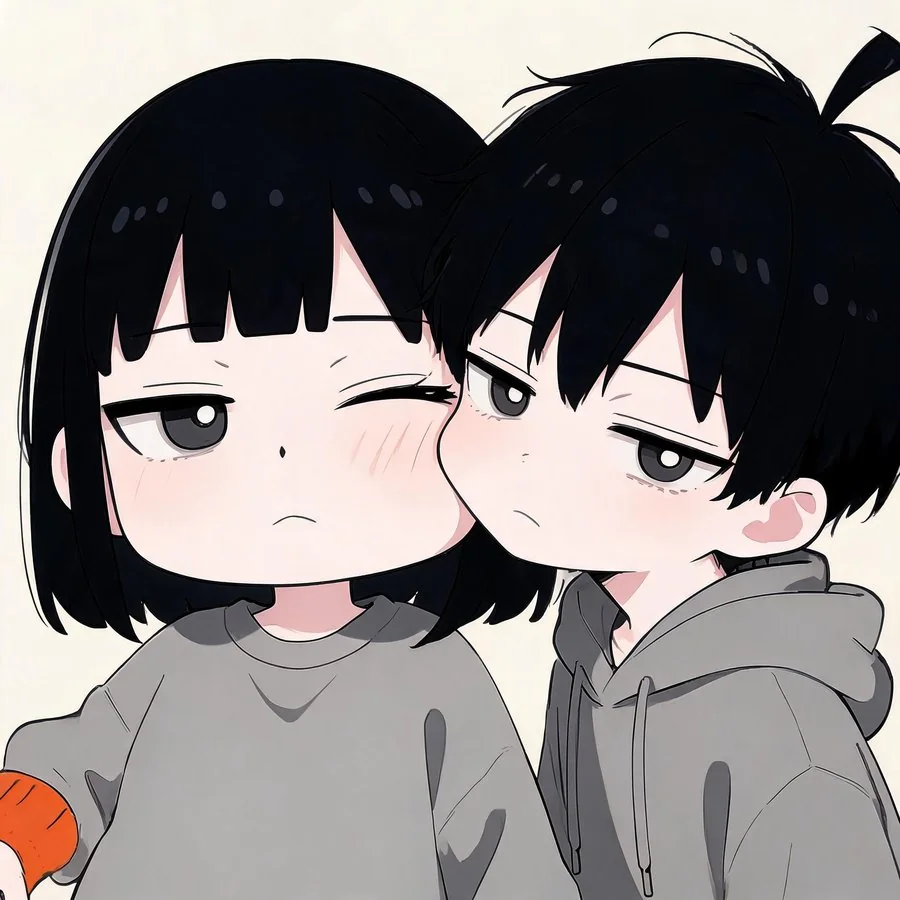
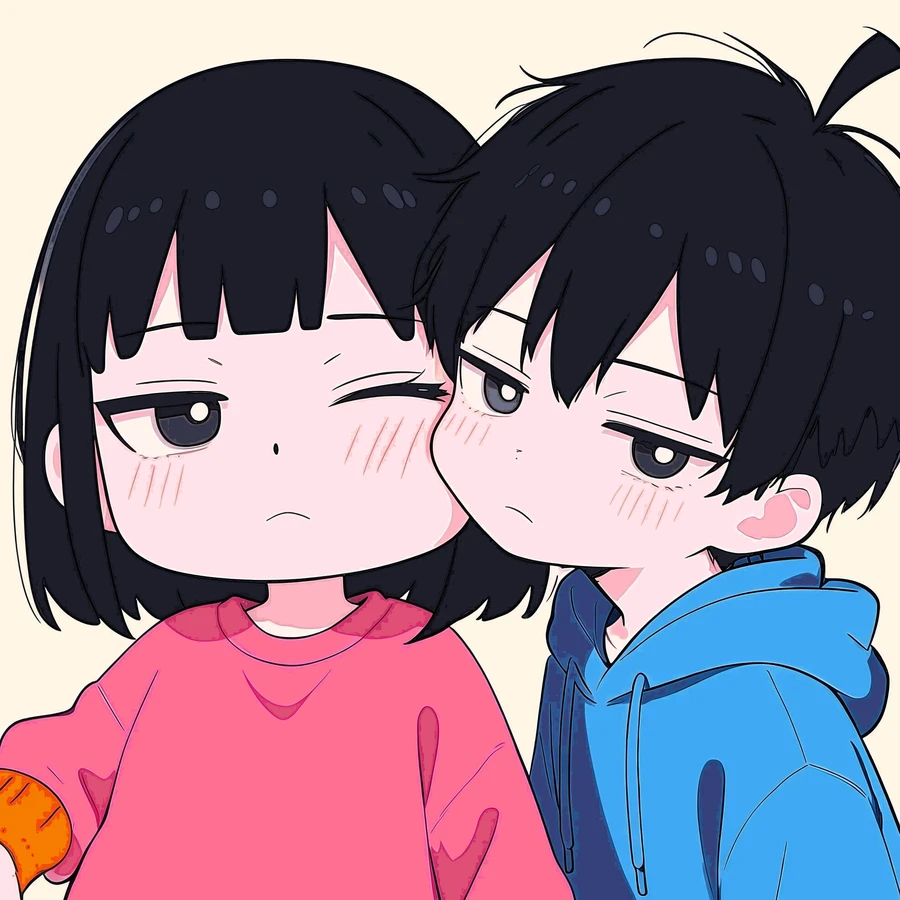
쌍둥이 듀오 셀카(twins/duo.webp)를 아동 컬러판(핑크 맨투맨·하늘색 후드)으로 다시 칠함

diff --git a/_tests/test_recolor_twins_duo.py b/_tests/test_recolor_twins_duo.py
@@ -1,0 +1,153 @@
+"""Item: recolour the twins duo selfie (assets/images/twins/duo.webp) to the kids palette.
+
+Done when
+- the image keeps the size and mode of the bb74c20 original (900x900 RGB, opaque),
+- it is more colourful than the original and colourfulness >= 8%,
+- the sister's pink sweatshirt (#FF6F91) and the brother's sky hoodie (#3FA9F5)
+  are both visible (the mono original has neither),
+- work PNGs / candidates live only outside the repo (TEMP), never in it.
+
+Note: the mono base already scores ~0.34 on imgcheck.colourfulness because its
+blue-black hair counts as saturated, so the garment checks are what prove the
+recolour actually happened.
+Run: python _tests/test_recolor_twins_duo.py
+"""
+import colorsys
+import os
+import subprocess
+import sys
+import unittest
+
+sys.dont_write_bytecode = True
+sys.path.insert(0, os.path.dirname(os.path.abspath(__file__)))
+import imgcheck  # noqa: E402
+
+REL = "assets/images/twins/duo.webp"
+MIN_COLOUR = 0.08     # completion criterion: colourfulness >= 8%
+MIN_SHARE = 0.03      # each garment colour must cover >= 3% of the picture
+BASE_MAX_SHARE = 0.02  # sanity: the mono base must stay below this
+
+
+def hue_share(img, lo, hi, sat_min=0.30, val_min=0.0, val_max=1.0, max_side=256):
+    """Share of opaque pixels whose hue is in [lo, hi] (wraps if lo > hi)."""
+    img = img.convert("RGBA")
+    if max(img.size) > max_side:
+        img = img.copy()
+        img.thumbnail((max_side, max_side), imgcheck.Image.NEAREST)
+    total = hits = 0
+    for r, g, b, a in img.getdata():
+        if a < 128:
+            continue
+        total += 1
+        h, s, v = colorsys.rgb_to_hsv(r / 255, g / 255, b / 255)
+        h *= 360
+        inside = (lo <= h <= hi) if lo <= hi else (h >= lo or h <= hi)
+        if inside and s >= sat_min and val_min <= v <= val_max:
+            hits += 1
+    return hits / total if total else 0.0
+
+
+def pink_share(img):
+    # pink #FF6F91 (hue ~346) and its shadow; bright, so dark reds are excluded
+    return hue_share(img, 325, 10, sat_min=0.30, val_min=0.55)
+
+
+def sky_share(img):
+    # sky #3FA9F5 (hue ~205) and shadow; bright, so blue-black hair is excluded
+    return hue_share(img, 188, 218, sat_min=0.30, val_min=0.70)
+
+
+class TestRecolorTwinsDuo(unittest.TestCase):
+    def test_file_exists(self):
+        self.assertTrue(os.path.isfile(imgcheck.repo_path(REL)))
+
+    def test_changed_from_base(self):
+        with open(imgcheck.repo_path(REL), "rb") as f:
+            now = f.read()
+        self.assertFalse(imgcheck.original_bytes(REL) == now,
+                         "still the bb74c20 (mono) file")
+
+    def test_size_and_mode_match_base(self):
+        ok, msg = imgcheck.same_size_mode(REL)
+        self.assertTrue(ok, msg)
+
+    def test_still_webp(self):
+        self.assertEqual(imgcheck.current(REL).format, "WEBP")
+
+    def test_more_colourful_than_base(self):
+        old = imgcheck.colourfulness(imgcheck.original(REL))
+        new = imgcheck.colourfulness(imgcheck.current(REL))
+        self.assertGreater(new, old, f"{old:.3f} -> {new:.3f}")
+        self.assertGreaterEqual(new, MIN_COLOUR, f"{new:.3f} < {MIN_COLOUR}")
+
+    def test_sister_pink_present(self):
+        share = pink_share(imgcheck.current(REL))
+        self.assertGreaterEqual(share, MIN_SHARE, f"pink sweatshirt {share:.3f}")
+
+    def test_brother_sky_present(self):
+        share = sky_share(imgcheck.current(REL))
+        self.assertGreaterEqual(share, MIN_SHARE, f"sky hoodie {share:.3f}")
+
+    def test_cream_background_kept(self):
+        # Opaque selfie on cream: top corners must stay light and near-neutral
+        # (no dark/colour fringe left by recolour or palette snap).
+        img = imgcheck.current(REL).convert("RGB")
+        w, h = img.size
+        bad = []
+        for xy in [(2, 2), (w - 3, 2)]:
+            r, g, b = img.getpixel(xy)
+            if min(r, g, b) < 200 or max(r, g, b) - min(r, g, b) > 40:
+                bad.append(f"{xy}: {(r, g, b)}")
+        self.assertEqual(bad, [], "top corners are not cream")
+
+    def test_no_work_files_in_repo(self):
+        out = subprocess.run(
+            ["git", "status", "--porcelain", "--untracked-files=all", "--ignored"],
+            cwd=imgcheck.REPO, capture_output=True, text=True, check=True).stdout
+        stray = [line for line in out.splitlines()
+                 if "duo" in line.lower()
+                 and line.lower().rstrip('"').endswith((".png", ".webp", ".jpg", ".jpeg"))
+                 and line[3:].strip().strip('"') != REL
+                 and "gongdong/" not in line]
+        self.assertEqual(stray, [], "work PNG / candidate left inside the repo")
+
+
+class TestHelpers(unittest.TestCase):
+    def test_hue_share_bounds(self):
+        Image = imgcheck.Image
+
+        def solid(rgb, a=255):
+            return Image.new("RGBA", (4, 4), rgb + (a,))
+
+        pink, sky = solid((0xFF, 0x6F, 0x91)), solid((0x3F, 0xA9, 0xF5))
+        navy, cream = solid((0x34, 0x40, 0x7A)), solid((0xFF, 0xF6, 0xE5))
+        hair, grey = solid((20, 24, 40)), solid((128, 128, 128))
+        tang = solid((0xF5, 0x7C, 0x00))
+        self.assertEqual(pink_share(pink), 1.0)
+        self.assertEqual(sky_share(sky), 1.0)
+        for other in (sky, navy, cream, hair, grey, tang):
+            self.assertEqual(pink_share(other), 0.0)
+        for other in (pink, navy, cream, hair, grey, tang):
+            self.assertEqual(sky_share(other), 0.0)
+        self.assertEqual(pink_share(solid((0xFF, 0x6F, 0x91), a=0)), 0.0)
+
+    def test_share_threshold_edge(self):
+        # 7 of 256 pixels (2.7%) is below MIN_SHARE, 8 of 256 (3.1%) passes.
+        Image = imgcheck.Image
+        img = Image.new("RGB", (16, 16), (0xFF, 0xF6, 0xE5))
+        for x in range(7):
+            img.putpixel((x, 0), (0x3F, 0xA9, 0xF5))
+        self.assertLess(sky_share(img), MIN_SHARE)
+        img.putpixel((7, 0), (0x3F, 0xA9, 0xF5))
+        self.assertGreaterEqual(sky_share(img), MIN_SHARE)
+
+    def test_base_lacks_garment_colours(self):
+        # The mono original must fail the garment checks, else they prove nothing.
+        old = imgcheck.original(REL)
+        self.assertLess(pink_share(old), BASE_MAX_SHARE)
+        self.assertLess(sky_share(old), BASE_MAX_SHARE)
+        self.assertEqual((old.size, old.mode), ((900, 900), "RGB"))
+
+
+if __name__ == "__main__":
+    unittest.main(verbosity=1)
